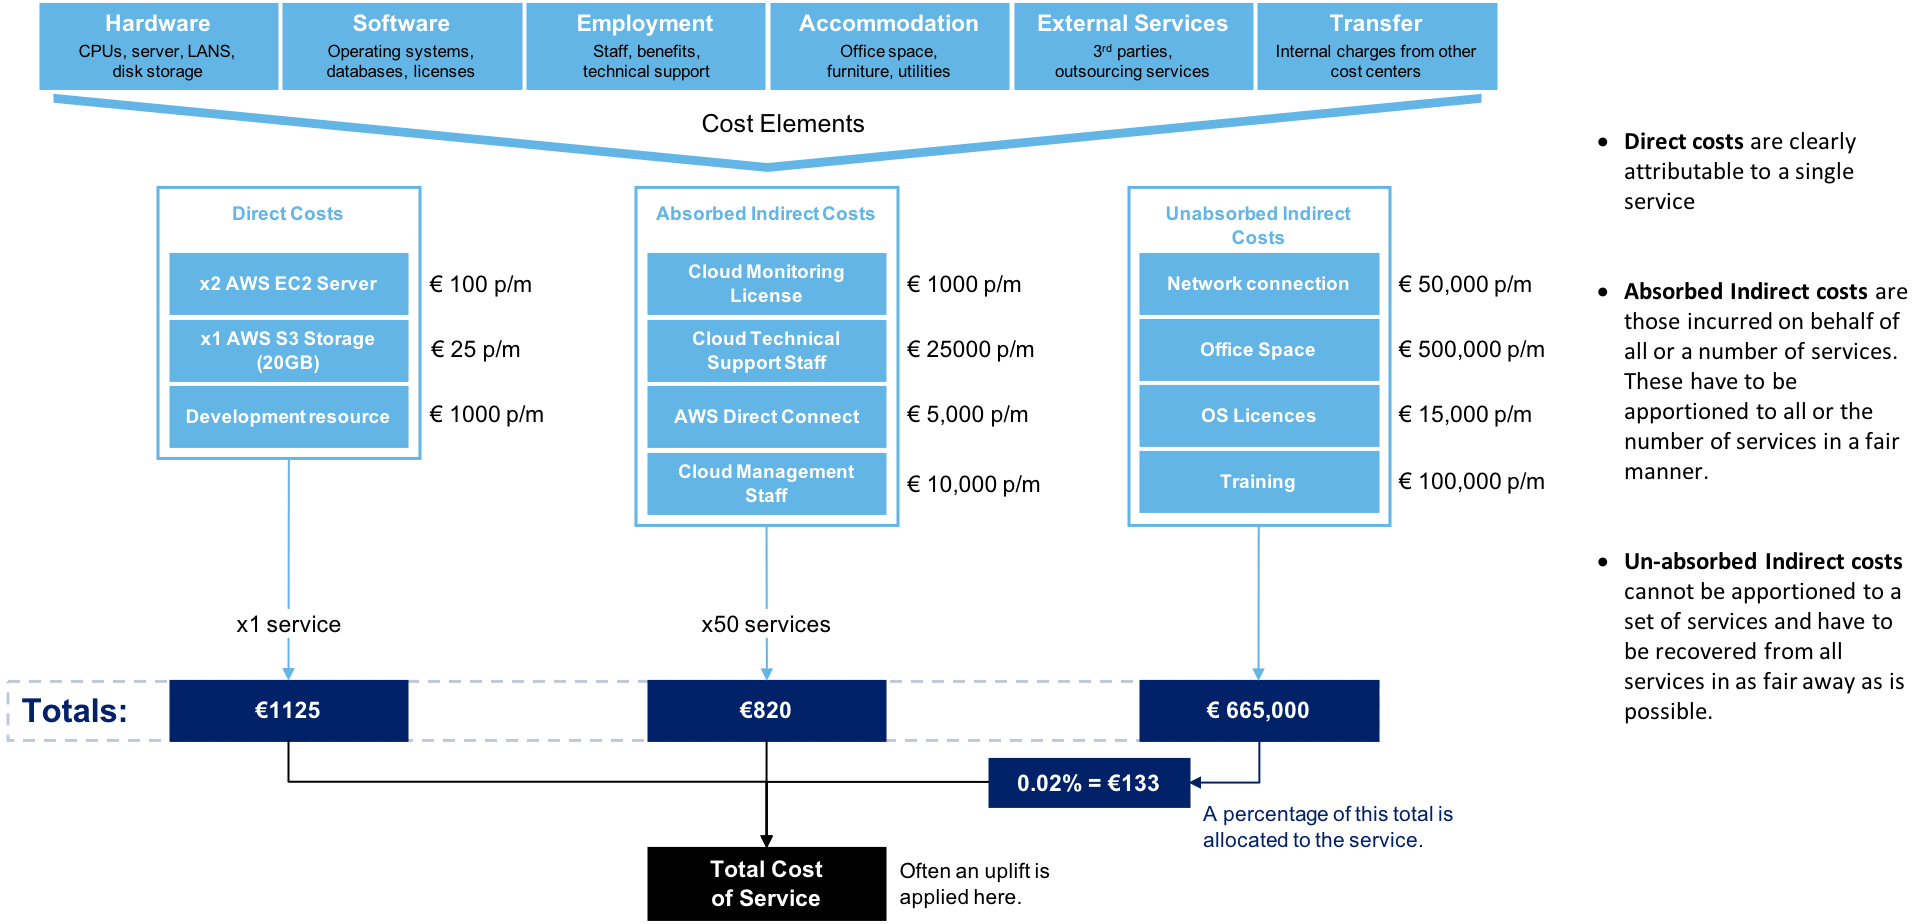
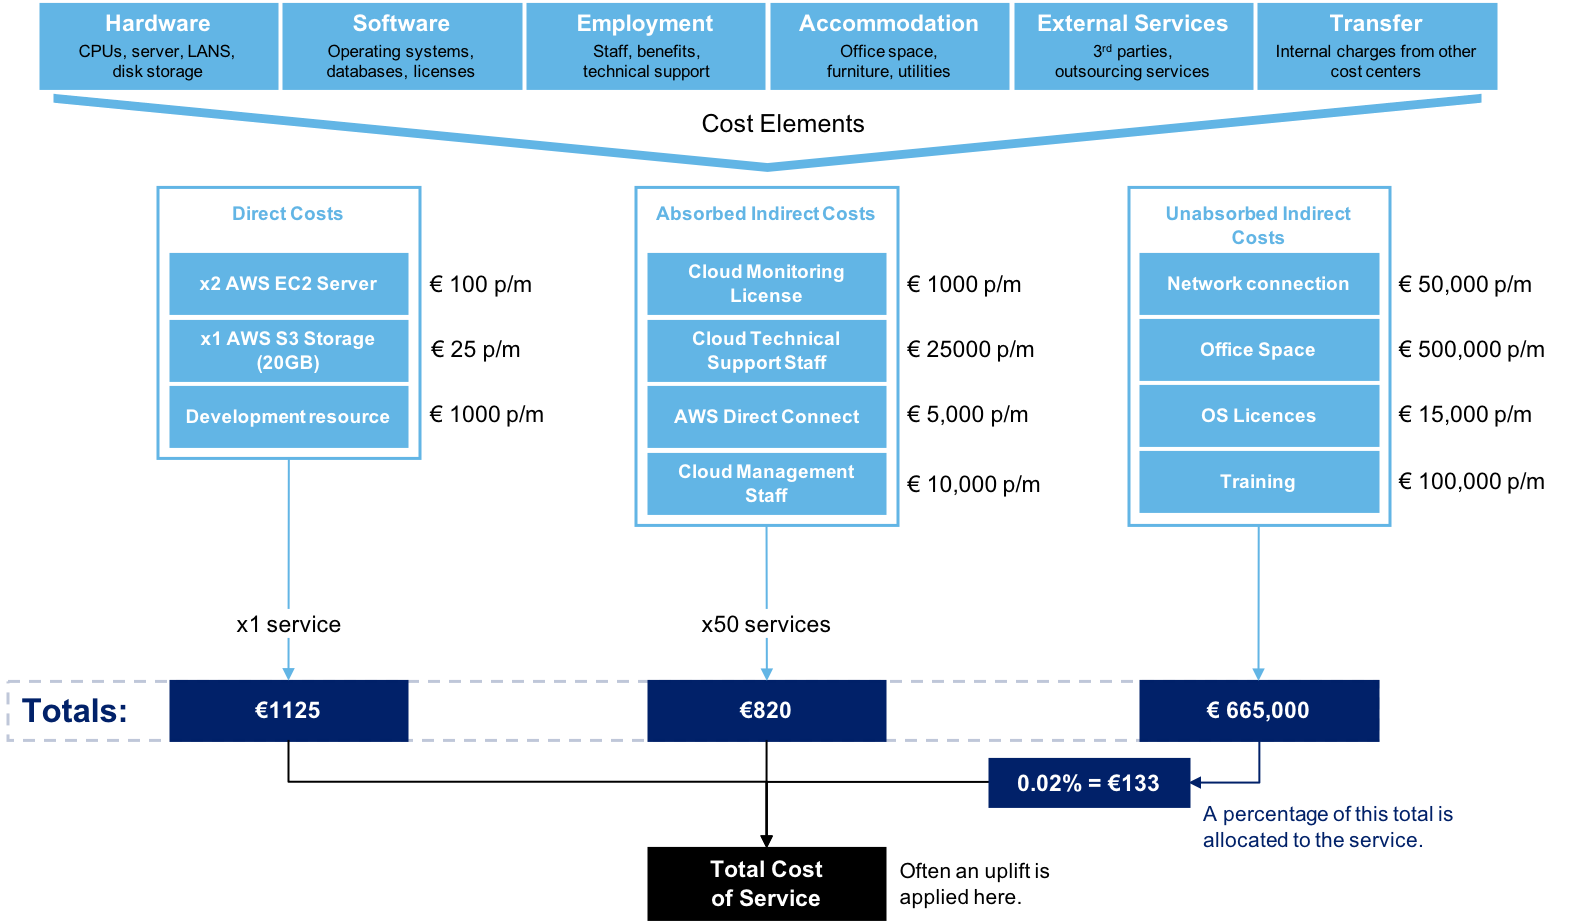
Added cost model

diff --git a/_sass/_style.scss b/_sass/_style.scss
@@ -92,7 +92,19 @@ audio:not([controls]) {
   height: 0; }
 
 img {
-  border-style: none; }
+  border-style: none;
+}
+
+.max-rem50 {max-width: 50rem !important;}
+.max-rem40 {max-width: 40rem !important;}
+.max-rem30 {max-width: 30rem !important;}
+.max-rem20 {max-width: 20rem !important;}
+.max-rem10 {max-width: 10rem !important;}
+.max-hrem50 {max-height: 50rem !important;}
+.max-hrem40 {max-height: 40rem !important;}
+.max-hrem30 {max-height: 30rem !important;}
+.max-hrem20 {max-height: 20rem !important;}
+.max-hrem10 {max-height: 10rem !important;}
 
 svg:not(:root) {
   overflow: hidden; }

diff --git a/_framework/01-01-finance.md b/_framework/01-01-finance.md
@@ -19,14 +19,23 @@ options to create very granular charge-back models. You will be able to track
 consumption with new details, which creates new opportunities to associate
 costs with results.
 
+## Cost for Services
+
+It can be difficult to calculate the cost of a service. In the picture shows a model to help you make this calculation. 
+* Direct costs are clearly attributable to a single service
+* Absorbed Indirect costs are those incurred on behalf of all or a number of services. These have to be apportioned to all or the number of services in a fair manner.
+* Un-absorbed Indirect costs cannot be apportioned to a set of services and have to be recovered from all services in as fair away as is possible
+
+![Service Cost Model](/assets/framework/servicecost.png){: .max-rem50}
+
 ## Cost Elements for Agile Teams
-When using cloud you probably will introduce agile teams. The advantage of Agile teams is that there cost are predictable. ![Agile Cost Elements](/assets/framework/agilecostelements.png)
+When using cloud you probably will introduce agile teams. The advantage of Agile teams is that there cost are predictable. ![Agile Cost Elements](/assets/framework/agilecostelements.png){: .max-rem40}
 
 ## Cost Control for Agile Teams
-As stated the one of the advantages of Agile Teams is cost control, the burn rate is stable so if you get a stable income the finacial out come is predicatable.
+As stated the one of the advantages of Agile Teams is cost control, the burn rate is stable so if you get a stable income the finacial out come is predicatable. Let's take a look at an example using a battery cost model.
 
-Let's take a look at an example using a battery cost model.
-![Battery Cost Model](/assets/framework/batterycostmodel.png)
+![Battery Cost Model](/assets/framework/batterycostmodel.png){: .max-hrem30}{: .max-rem20}
+
 An agile team consist of 6 team members. The members have all the same rate (€70 incl. 8% innovation + overhead) as a result the average month cost are €75.000.
 The total year cost will be €900.000 and therefore the team can spend €72.000 on innovation (4 weeks). 
 
@@ -35,5 +44,4 @@ If we take the assumption that the agile team in average will spend 32% of there
 Using a battery model we can evaluate if the agile team will break even at the end of FYI.
 
 Compute resources are always charged directly to the functions and therefor don't need to be part of the battery model
-
 

diff --git a/todo.md b/todo.md
@@ -15,6 +15,7 @@
 * New Main page using Simple picture, Add Customer demand to this picture [Red customer]
 * Fix Scroll Top of Progressbar.js
 * Create as small javascript that will update KPI based on json file
+* Add 2 tabs on framework
 
 # Documentation additions
 * Add a single page explaining the whole concept, linking to documents
@@ -22,6 +23,7 @@
 * Add ISO Excel
 * Add plan for BCM
 * Add Service Cost Model 
+* references.md contains all references used on site
 
 
 # Links to check
